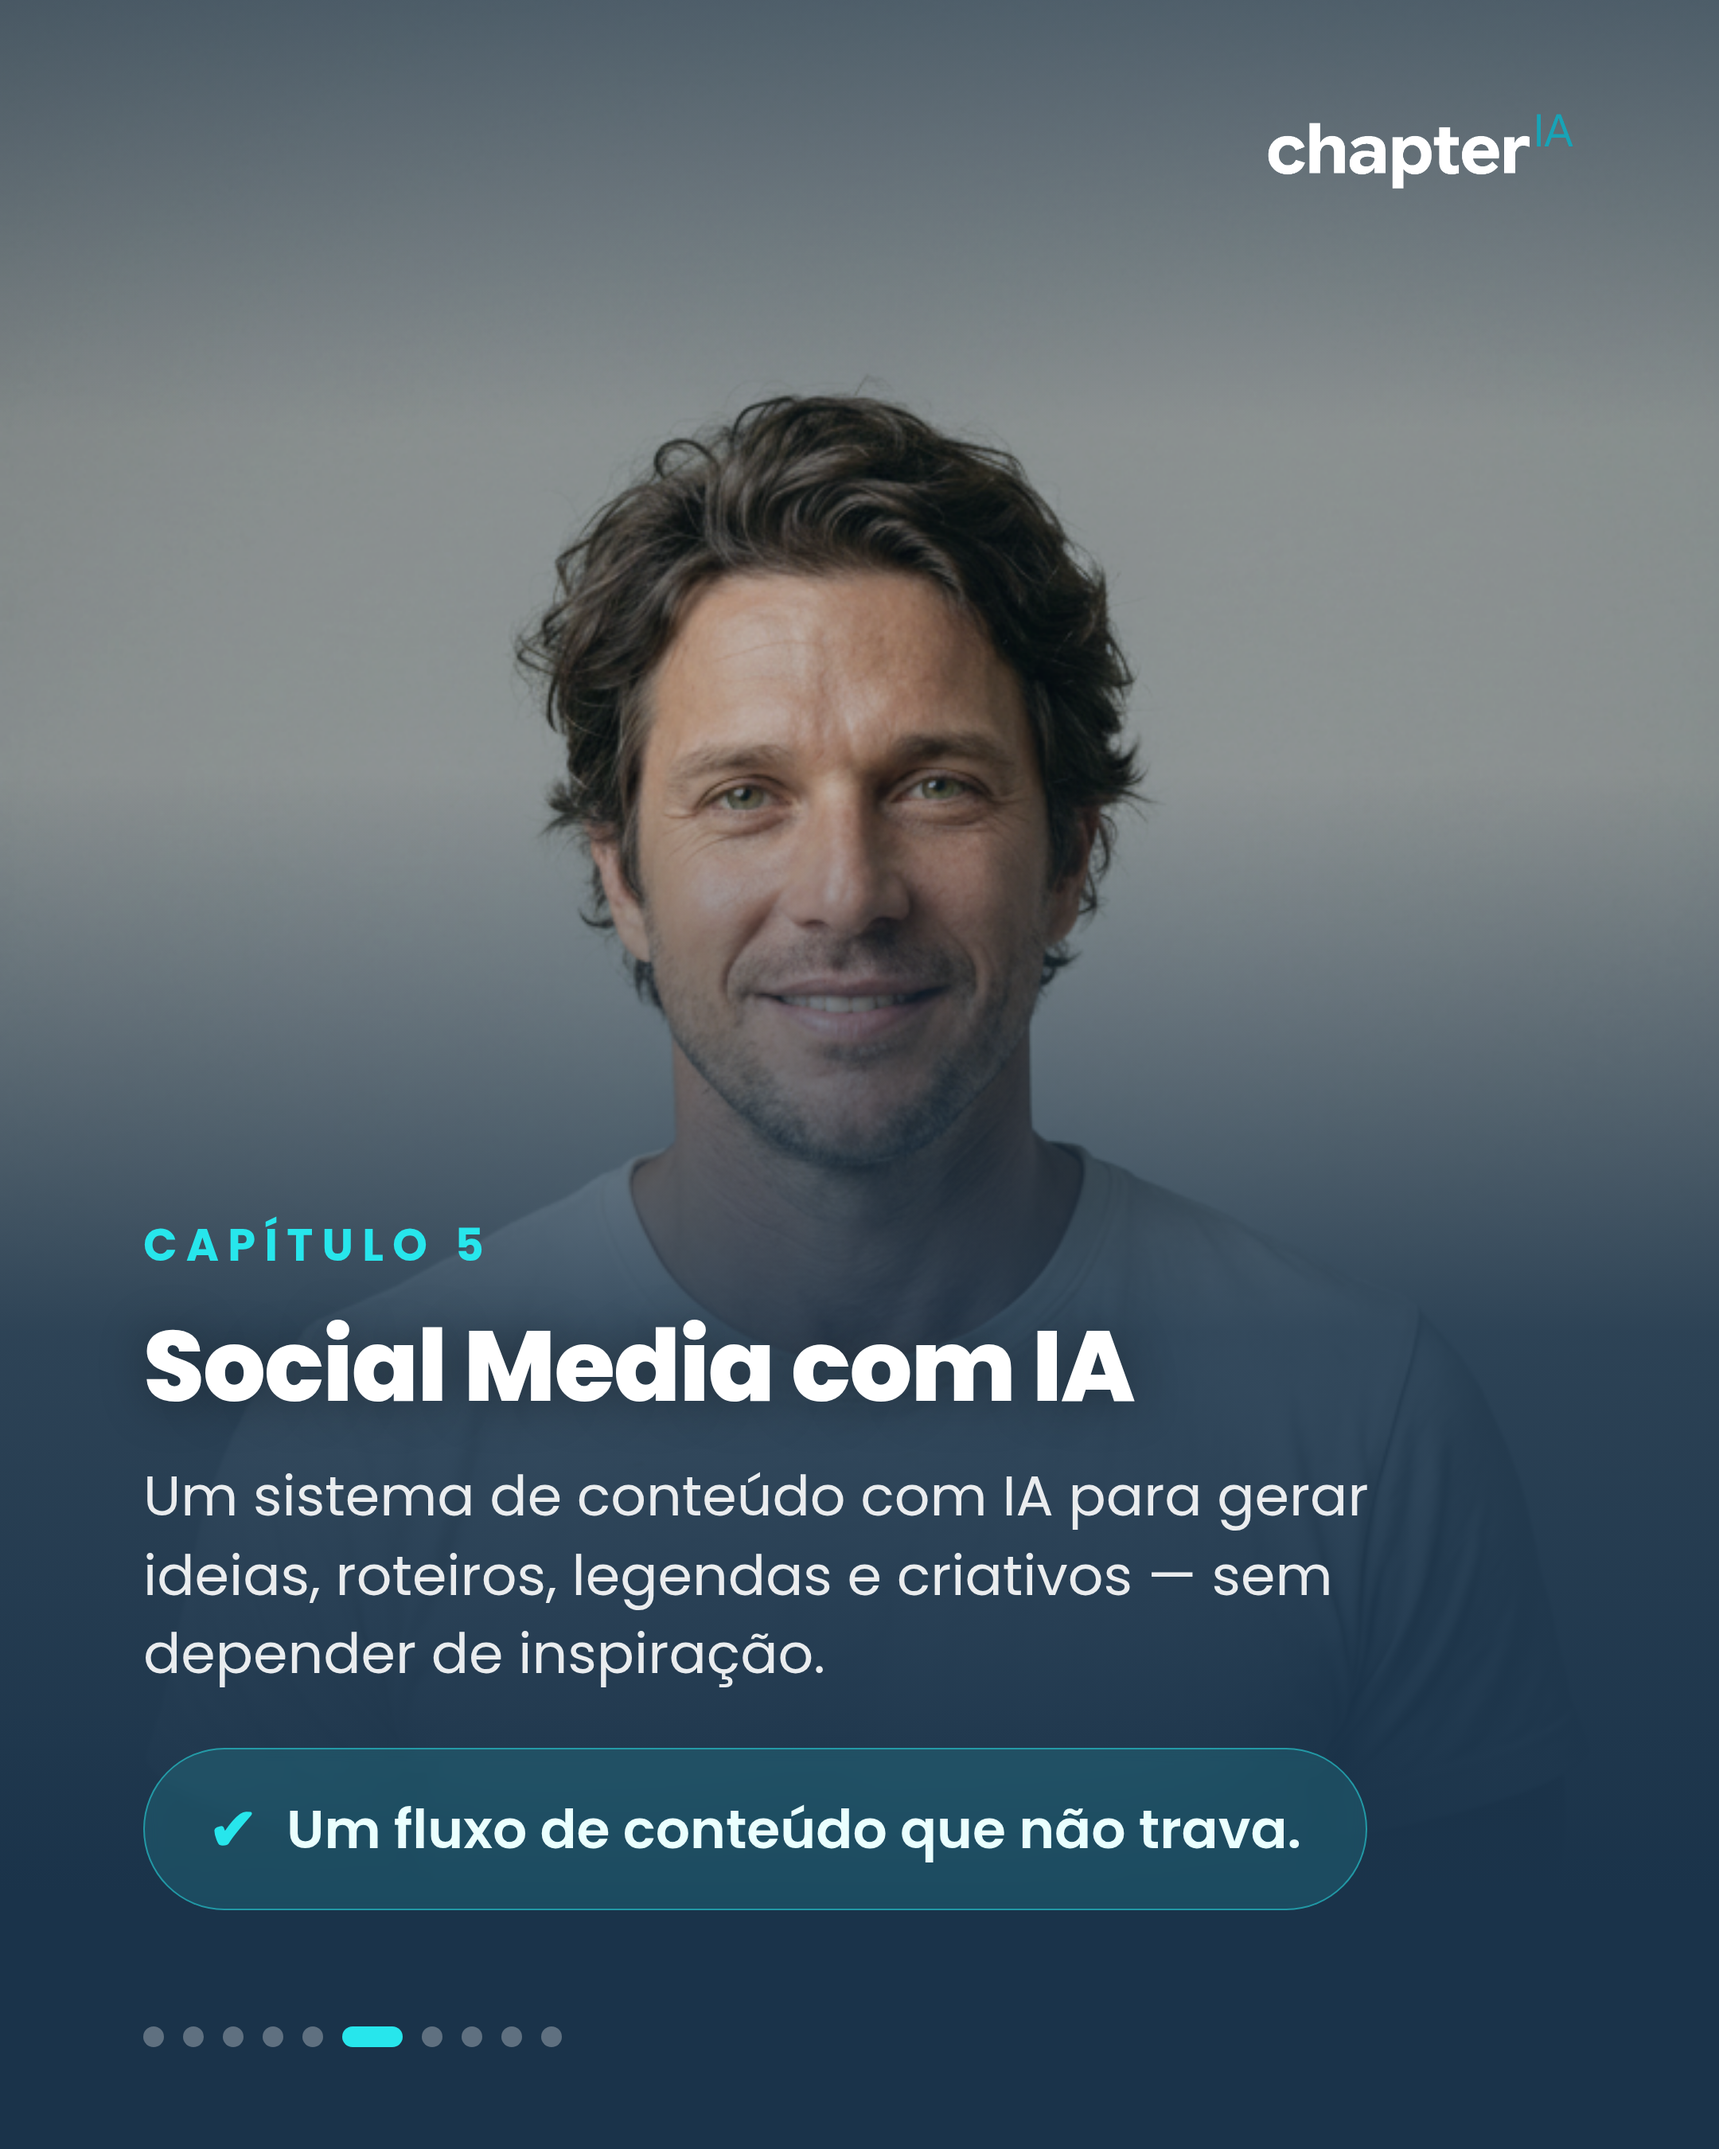
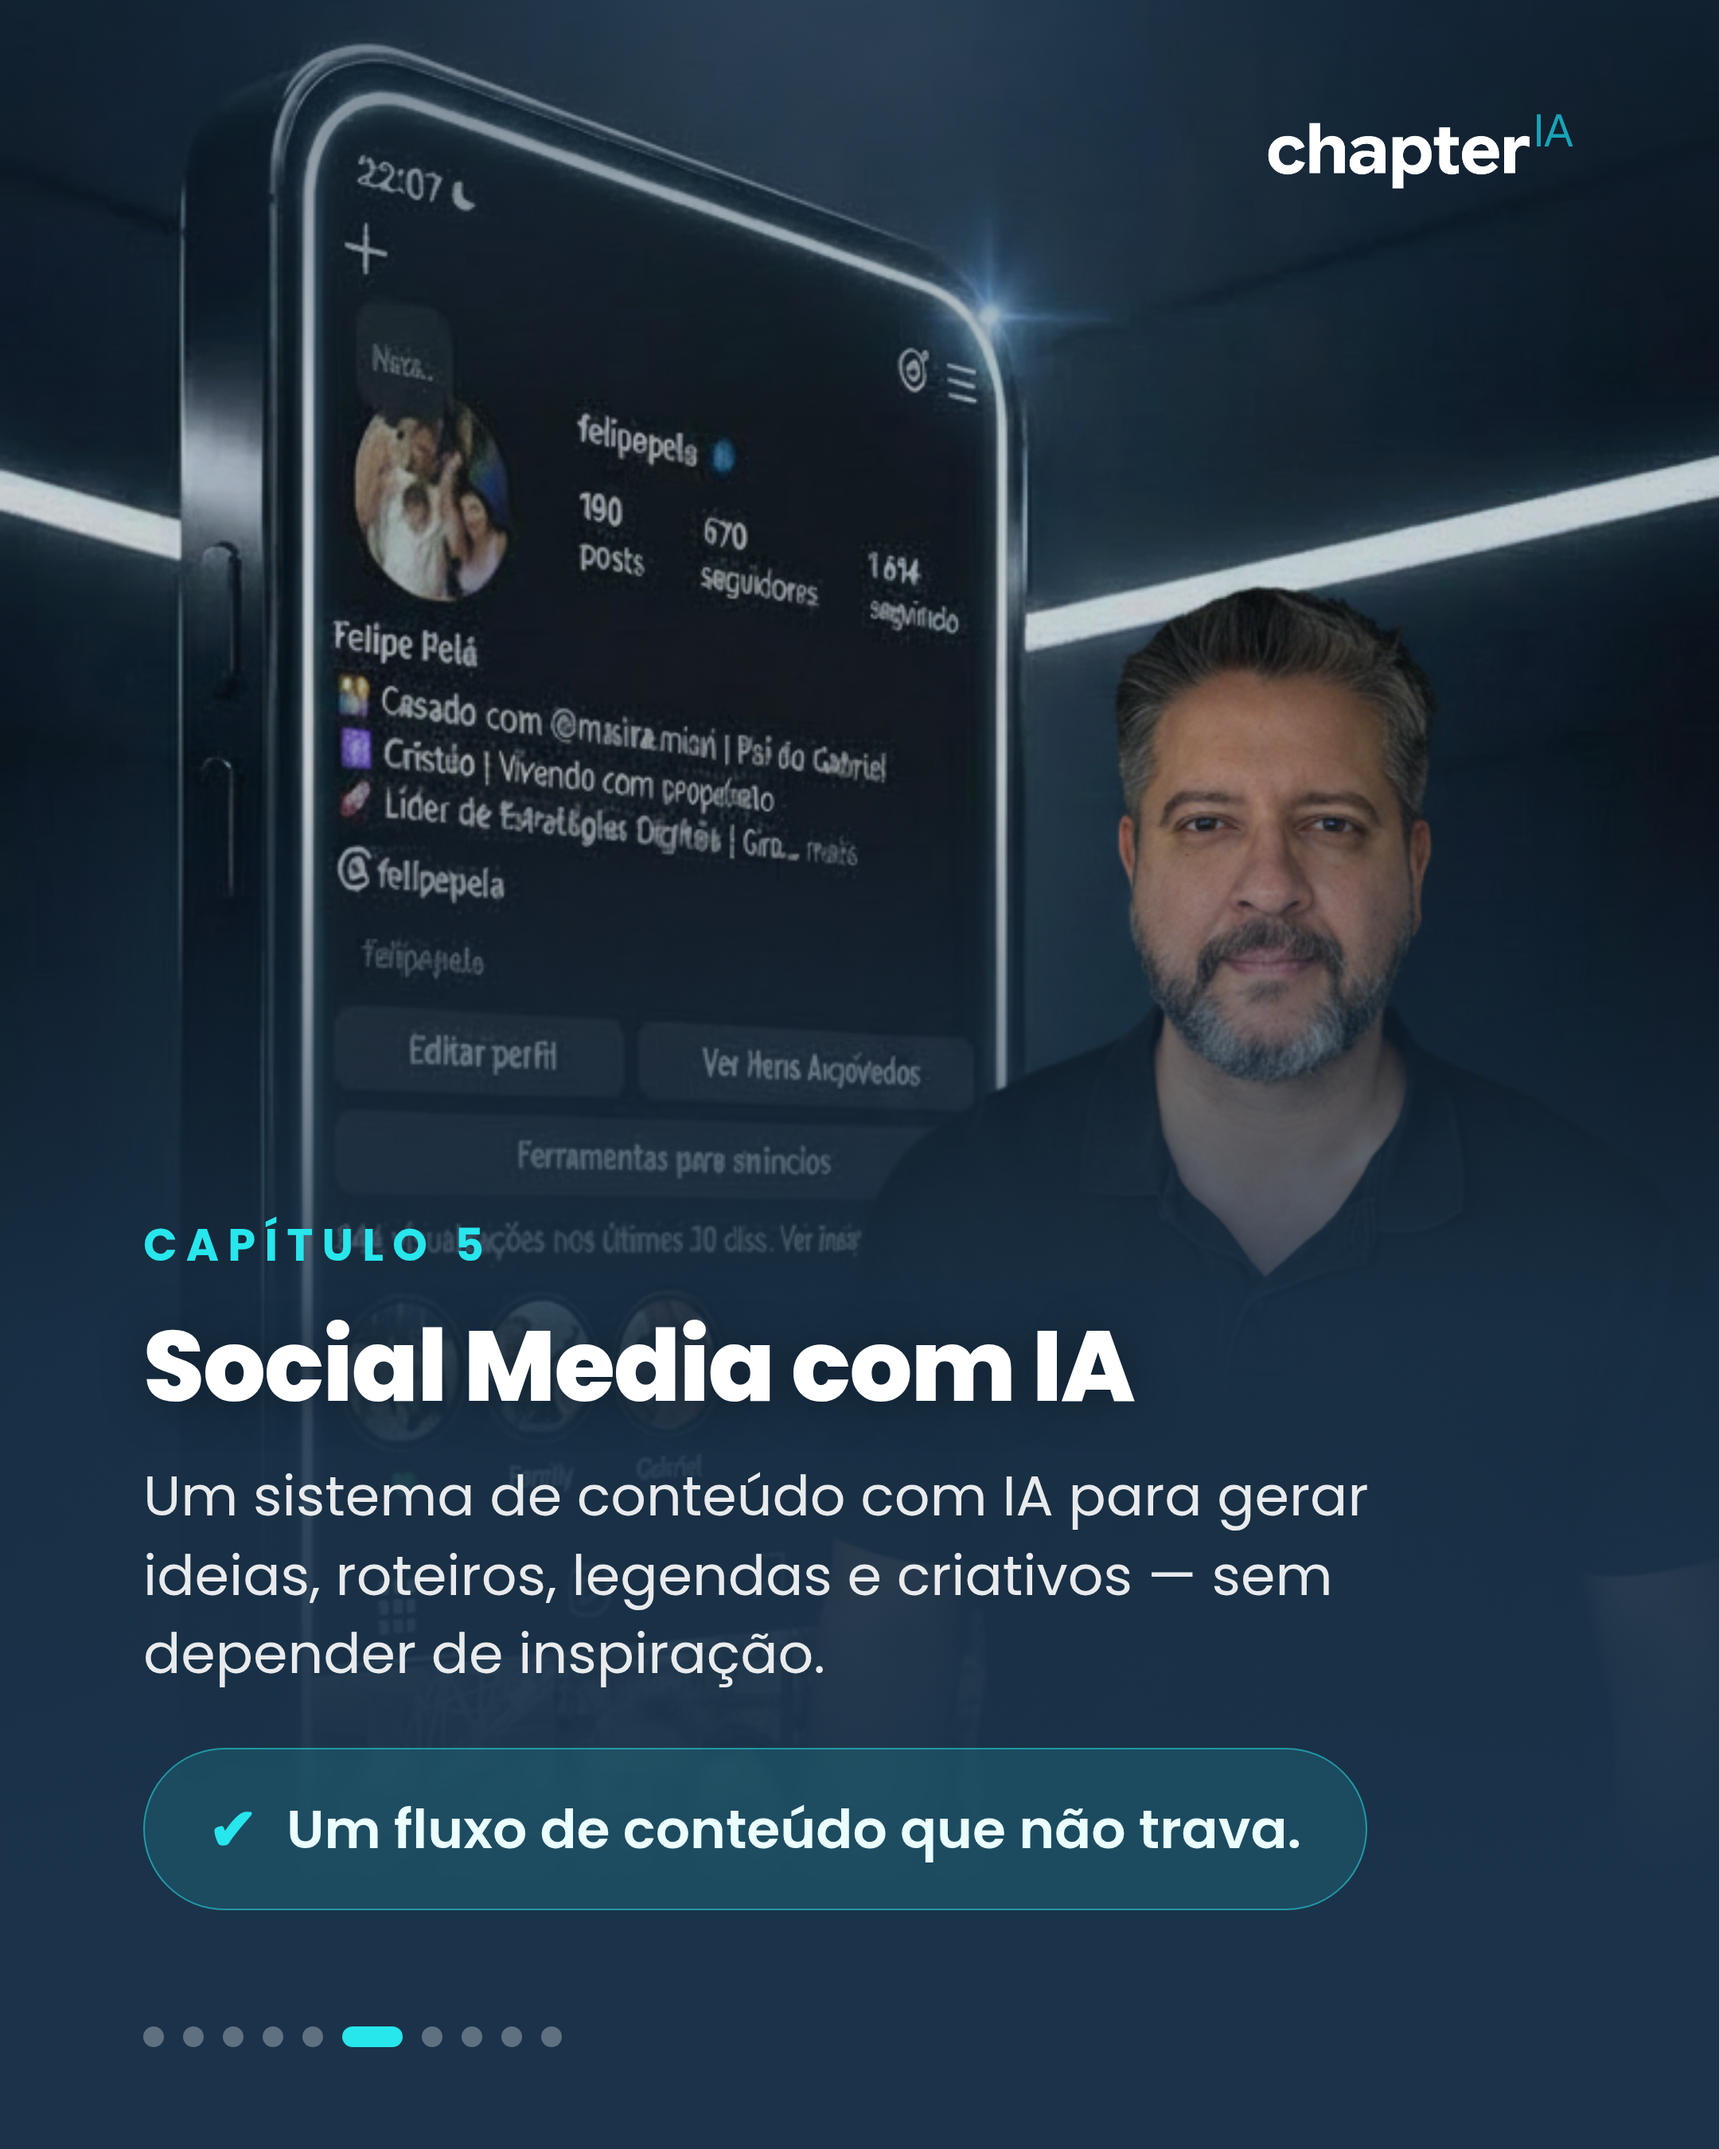
Troca imagens cap5<->cap6 (Social Media = perfil IG, Influencer = persona)
Claude-Session: https://claude.ai/code/session_01TRRjPqLtPPeRw63FEdxucr

diff --git a/social/posts/carrossel-02-capitulos.md b/social/posts/carrossel-02-capitulos.md
@@ -11,13 +11,10 @@ estruturado** (não só um curso), despertando interesse em conhecer pela bio.
 > Google Sans — arte final oficial deve usar Google Sans). Descrições **do site
 > oficial**, mesma ordem, sem inventar módulos.
 >
-> **Imagens fonte:** [`assets/carrossel-02-capitulos/fontes-imagens/`](assets/carrossel-02-capitulos/fontes-imagens/)
-> (cap1 workflow · cap2 Lovable · cap3 ciborgue · cap4 prompt · cap5 persona ·
-> cap6 perfil IG · cap7 site ChapterIA · bônus Meta).
->
-> ⚠ **A conferir:** seguindo a ordem enviada, a **persona jovem** ficou no
-> Cap 5 (Social Media) e o **perfil do Instagram** no Cap 6 (Influencer). Pelo
-> tema podem estar trocados — trocar cap5/cap6 é 1 ajuste se o Felipe confirmar.
+> **Imagens fonte → capítulo (final):** cap1 workflow · cap2 Lovable ·
+> cap3 ciborgue · cap4 prompt · **cap5 perfil do Instagram (Social Media)** ·
+> **cap6 persona (Influencer Digital)** · cap7 site ChapterIA · bônus Meta.
+> Os arquivos em `fontes-imagens/` mantêm o nome original de origem.
 
 ## Copy por slide
 
